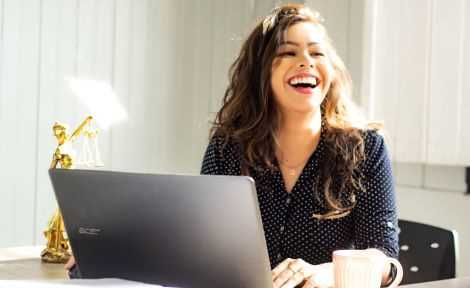
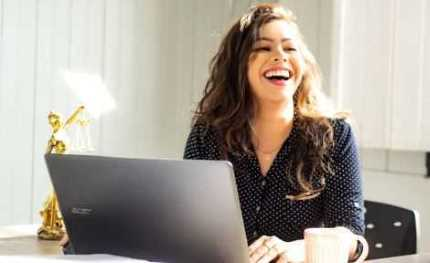
amelioration performance

diff --git a/index.html b/index.html
@@ -189,7 +189,7 @@
       </header>
       <div id="about">
         <div class="picture left">
-          <img src="./assets/images/nina.png" alt="image de nina" />
+          <img src="./assets/images/nina.jpg" alt="image de nina" />
         </div>
         <div id="about-me">
           <h2 class="about-me__title">A propos de moi</h2>
@@ -375,7 +375,7 @@
               </form>
             </div>
             <div class="picture right">
-              <img src="./assets/images/camera.png" alt="Appareil photo" />
+              <img src="./assets/images/camera.jpg" alt="Appareil photo" />
             </div>
           </div>
         </div>

diff --git a/assets/style.css b/assets/style.css
@@ -84,6 +84,7 @@ body {
 	font-weight: 800;
 	font-style: italic;
 	width: 60%;
+	font-size: 20px;
 }
 #about-me p {
 	width: 80%;
